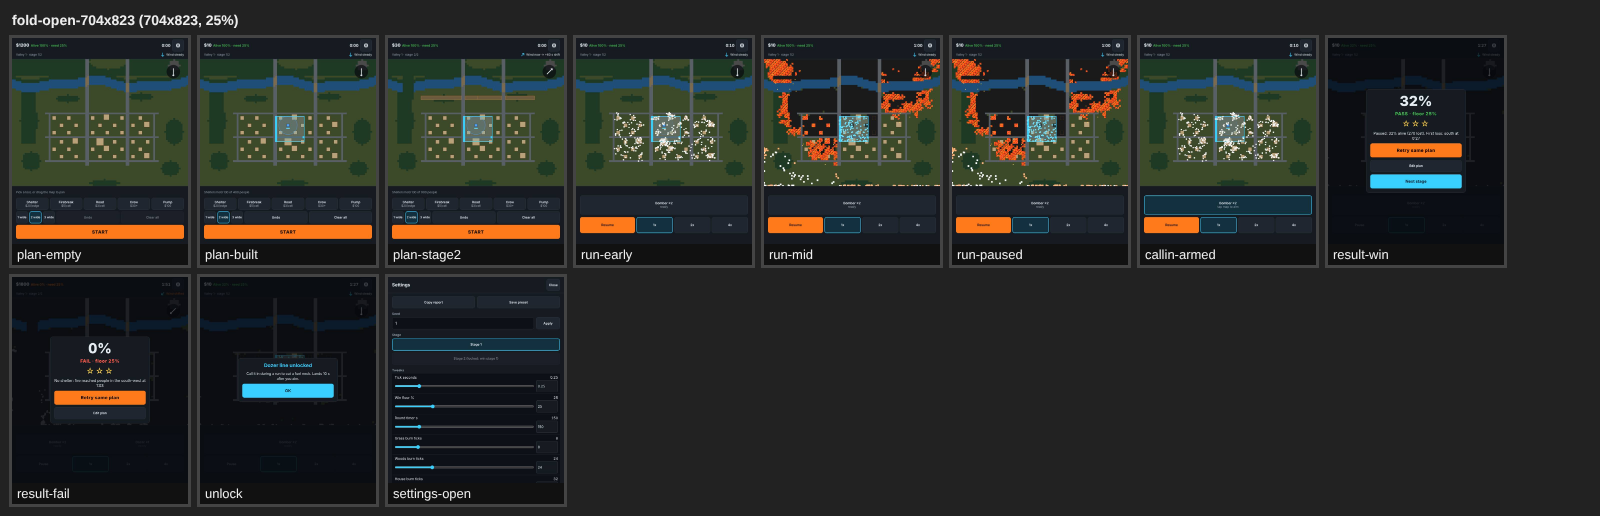
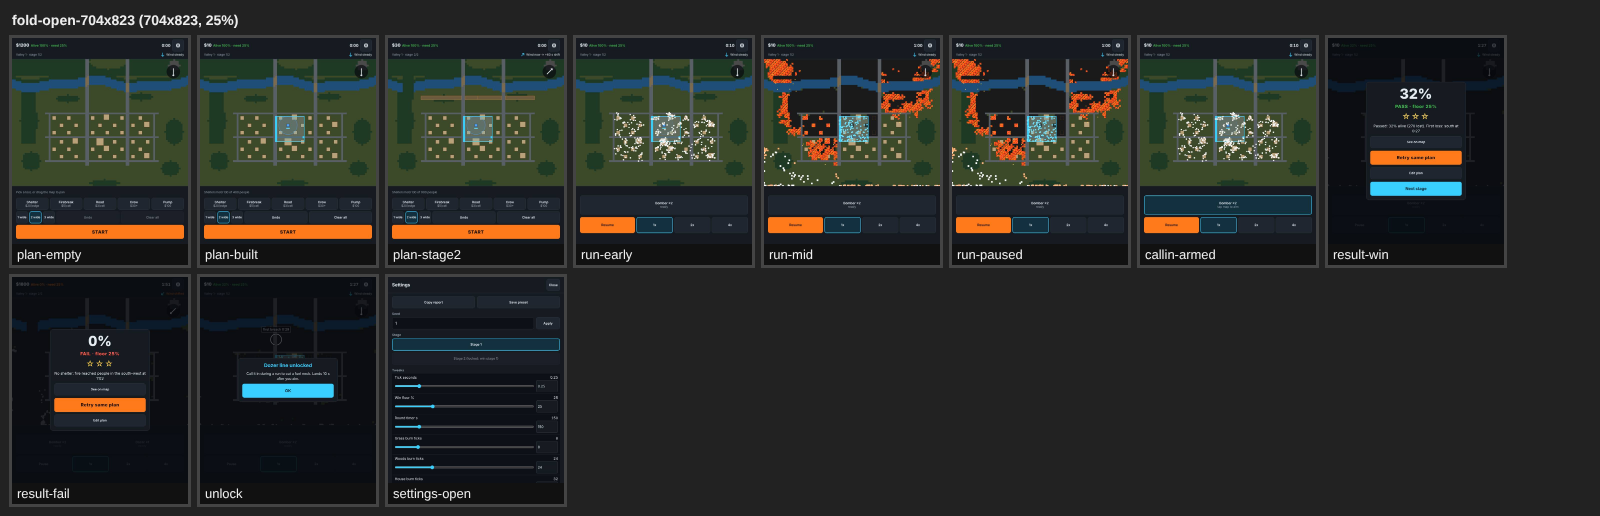
Windward Line: GameUp fixes (retry replays call-ins, first breach marked on result map, stronger tests)
Claude-Session: https://claude.ai/code/session_01Lcw2xwGgeZfKaon83XgmU6

Changed region(s): [[0.8438, 0.155, 0.9375, 0.4031], [0.0312, 0.6512, 0.0938, 0.8372]]

diff --git a/pages/windward-line/js/ui.js b/pages/windward-line/js/ui.js
@@ -1,6 +1,7 @@
 // Windward Line - DOM UI (M7). initUI(root, api) -> {update, showResult, showUnlock, hideOverlays, toast, openSettings, closeSettings}
 // Builds every element inside root except #map (already there). update() runs every frame: DOM touched only on change.
-import { STAGES, fmtTime, cfgDiffers, windVec, defaultCfg } from './contract.js';
+import { resultMark } from './render.js';
+import { STAGES, CELL_PX, fmtTime, cfgDiffers, windVec, defaultCfg } from './contract.js';
 
 const TOOL_NAME = { zone: 'Shelter', break: 'Firebreak', road: 'Road', crew: 'Crew', pump: 'Pump' };
 const TOOL_HINT = {
@@ -113,7 +114,8 @@ export function initUI(root, api) {
   const bRetry = btn('primary', 'Retry same plan', { 'data-act': 'retry' });
   const bEdit = btn('', 'Edit plan', { 'data-act': 'edit' });
   const bNext = btn('accent', 'Next stage', { 'data-act': 'next' });
-  rCard.append(rBig, rVerdict, rStars, rCause, rNote, bRetry, bEdit, bNext);
+  const bSee = btn('', 'See on map', { 'data-act': 'see-map' }); bSee.hidden = true;
+  rCard.append(rBig, rVerdict, rStars, rCause, rNote, bSee, bRetry, bEdit, bNext);
   result.appendChild(rCard);
 
   // ---------- unlock ----------
@@ -165,7 +167,9 @@ export function initUI(root, api) {
 
   const toastEl = el('div', null, '', { id: 'toast', role: 'status', 'aria-live': 'polite' }); toastEl.hidden = true;
 
-  root.append(top, trayPlan, trayRun, result, unlock, settings, toastEl);
+  const bBack = btn('accent', 'Back to result', { 'data-act': 'back-result' }); bBack.hidden = true;
+  Object.assign(bBack.style, { position: 'fixed', zIndex: '25', left: '50%', transform: 'translateX(-50%)', width: 'auto', minWidth: '160px', height: '48px', minHeight: '48px', padding: '0 20px', bottom: 'calc(16px + env(safe-area-inset-bottom, 0px))', flexDirection: 'row' });
+  root.append(bBack, top, trayPlan, trayRun, result, unlock, settings, toastEl);
 
   // ---------- state ----------
   let armed = null;       // armed call-in (local mirror unless api.getArmed exists)
@@ -174,12 +178,12 @@ export function initUI(root, api) {
   let evSeen = 0, warned = false, shiftedEv = false, evStateId = null;
   let toastTimer = 0;
   let presetN = 0;
-  let resultWanted = false; // result sheet logically open (hidden visually while the unlock card shows)
+  let resultWanted = false, mapMode = false; // result sheet logically open (hidden visually while the unlock card shows)
   const cfgOf = (s) => (s && s.cfg) || call('getCfg') || defaultCfg;
 
   // ---------- overlay stacking ----------
   function syncInert() {
-    const anyOpen = resultWanted || !unlock.hidden || !settings.hidden;
+    const anyOpen = (resultWanted && !mapMode) || !unlock.hidden || !settings.hidden;
     for (const e of [top, trayPlan, trayRun, document.getElementById('map')]) {
       if (!e) continue;
       setAttr(e, 'aria-hidden', anyOpen ? 'true' : null);
@@ -187,7 +191,8 @@ export function initUI(root, api) {
     }
     const topIsUnlock = !unlock.hidden;
     const resCovered = topIsUnlock || !settings.hidden;
-    setHidden(result, resultWanted && !unlock.hidden ? true : !resultWanted);
+    setHidden(result, resultWanted && !unlock.hidden ? true : (!resultWanted || mapMode));
+    bBack.hidden = !(resultWanted && mapMode) || !settings.hidden;
     setAttr(result, 'aria-hidden', resCovered ? 'true' : null);
     setAttr(result, 'inert', resCovered ? '' : null);
     const setCovered = !unlock.hidden;
@@ -229,7 +234,17 @@ export function initUI(root, api) {
     setHidden(bNext, !(r.win && st === 1));
     setText(rNote, r.win && st === 2 ? 'Valley 1 continues - stages 3 to 5 later' : '');
     setHidden(rNote, !(r.win && st === 2));
+    mapMode = false; bSee.hidden = !resultMark(s);
     resultWanted = true; syncInert();
+  }
+  function seeOnMap() {
+    const s = last, mk = resultMark(s), W = window.WL, v = W && W.view, m = document.getElementById('map');
+    if (mk && v && m) { // centre the camera on the mark (admin default)
+      const S = CELL_PX * v.scale;
+      v.ox = (mk.x + 0.5) * S - (m.clientWidth || window.innerWidth) / 2;
+      v.oy = (mk.y + 0.5) * S - (m.clientHeight || window.innerHeight) / 2;
+    }
+    mapMode = true; syncInert(); try { W && W.render && W.render(); } catch (e) { /* ignore */ }
   }
   function showUnlock(text) {
     let body = String(text == null ? '' : text).replace(/^\s*Dozer line unlocked\s*[:.\-–]?\s*/i, '');
@@ -237,7 +252,7 @@ export function initUI(root, api) {
     unlock.hidden = false; refreshStagePicker(); syncInert();
   }
   function hideOverlays() {
-    resultWanted = false; unlock.hidden = true; syncInert();
+    resultWanted = false; mapMode = false; unlock.hidden = true; syncInert();
   }
   function toast(text) {
     toastEl.textContent = String(text == null ? '' : text); toastEl.hidden = false;
@@ -277,6 +292,8 @@ export function initUI(root, api) {
         case 'undo': call('undo'); break;
         case 'clear': call('clearAll'); break;
         case 'pause': call('pause', !(last && last.paused)); break;
+        case 'see-map': seeOnMap(); break;
+        case 'back-result': mapMode = false; syncInert(); break;
         case 'retry': hideOverlays(); call('retry'); break;
         case 'edit': hideOverlays(); call('editPlan'); break;
         case 'next': hideOverlays(); call('nextStage'); break;

diff --git a/pages/windward-line/js/render.js b/pages/windward-line/js/render.js
@@ -1,7 +1,16 @@
 // Windward Line - render.js (M6). Canvas 2D. Imports only contract.js.
 // Terrain (grid.type + burnt) cached in an offscreen 96x128 canvas (1 px per cell), scaled with smoothing off.
 // Static vector overlays (building outlines, break outlines) cached as Path2D in cell units. Dynamic layers per frame.
-import { TYPE, MODE, MAP_W, MAP_H, CELL_PX, windVec } from './contract.js';
+import { TYPE, MODE, MAP_W, MAP_H, CELL_PX, windVec, fmtTime } from './contract.js';
+
+// result mark: state.firstBreach {x,y,tick,kind}, else the first 'first-loss' event. Shared with ui.js (See on map).
+export function resultMark(state) {
+  if (!state || state.phase !== 'result') return null;
+  const fb = state.firstBreach;
+  if (fb && fb.x != null) return { x: fb.x, y: fb.y, tick: fb.tick, label: 'first breach' };
+  const fl = (state.events || []).find((e) => e.kind === 'first-loss');
+  return fl && fl.x != null ? { x: fl.x, y: fl.y, tick: fl.tick, label: 'first loss' } : null;
+}
 
 const COL = {
   bg: '#0d1117', [TYPE.GRASS]: '#3d4a2a', [TYPE.WOODS]: '#1f3a24', [TYPE.HOUSE]: '#b9a27a', [TYPE.ROAD]: '#5a5f66',
@@ -263,5 +272,19 @@ export function draw(r, state, view, overlay) {
     ctx.beginPath(); ctx.moveTo(hx + wx * 6, hy + wy * 6); ctx.lineTo(hx + nx * 6, hy + ny * 6); ctx.lineTo(hx - nx * 6, hy - ny * 6); ctx.closePath(); ctx.fill();
     ctx.lineCap = 'butt'; // no text label: top bar already names the wind
   }
+  // result mark: static white ring (3 cells) + label tag, no animation
+  const mk = resultMark(state);
+  if (mk) {
+    const mx = sx(mk.x + 0.5), my = sy(mk.y + 0.5), rr = 3 * S;
+    ctx.save();
+    ctx.strokeStyle = 'rgba(8,10,14,0.85)'; ctx.lineWidth = 6; ctx.beginPath(); ctx.arc(mx, my, rr, 0, 6.2832); ctx.stroke();
+    ctx.strokeStyle = '#ffffff'; ctx.lineWidth = 3; ctx.beginPath(); ctx.arc(mx, my, rr, 0, 6.2832); ctx.stroke();
+    ctx.restore();
+    const txt = mk.label + ' ' + fmtTime(mk.tick * (cfg.tickSec || 0.25));
+    const lb = labelBox(ctx, txt, mx, my - rr - 18, vw, vh);
+    ctx.fillStyle = '#fff'; ctx.fillText(txt, lb.tx, lb.ty);
+    ctx.strokeStyle = '#fff'; ctx.lineWidth = 1; ctx.strokeRect(lb.x + 0.5, lb.y + 0.5, lb.bw - 1, lb.bh - 1);
+  }
+
   r.lastMs = (typeof performance !== 'undefined') ? performance.now() - t0 : 0;
 }

diff --git a/pages/windward-line/js/sim.js b/pages/windward-line/js/sim.js
@@ -29,7 +29,7 @@ export function createState(stage, cfg, seed) {
     money: S.money, spent: 0,
     counts: { people0: S.people, safe: 0, lost: 0, burning: 0, burnt: 0, inZone: 0 },
     events: [], firstBreach: null, spotIndex: 0, nextSpotTick: S.newSpotEvery > 0 ? secToTicks(cfg, S.newSpotEvery) : Infinity, quietTicks: 0,
-    inputs: [], result: null,
+    inputs: [], replay: [], result: null,
     _sprayHits: new Uint8Array(N),
   };
 }
@@ -167,6 +167,8 @@ function crewStep(state, refillNow) {
 export function step(state) {
   if (state.phase !== PHASE.RUN) return;
   const { cfg, wind, map } = state, S = STAGES[state.stage];
+  // 0 replay: re-queue recorded live call-ins at their original tick (retry / edit plan), before wind and resolution
+  if (state.replay && state.replay.length) for (const r of state.replay) if (r.tick === state.tick) queueCallin(state, r.type, r.x, r.y);
   // 1 wind
   if (wind.shiftAtTick != null && !wind.shifted) {
     const warnAt = Math.max(0, wind.shiftAtTick - secToTicks(cfg, cfg.forecastLeadSec));

diff --git a/pages/windward-line/js/testhook.js b/pages/windward-line/js/testhook.js
@@ -70,7 +70,7 @@ export function installTestHook(WL) {
     const r = s.result;
     if (win && !(r && r.win)) {
       // admin default fallback: force a representative win so the result sheet is always reachable.
-      s.result = { win: true, pct: 62, stars: 1, cause: 'Held: 62% alive', hash: 0, sec: 88 };
+      s.result = { win: true, pct: 62, stars: 1, cause: 'Passed: 62% alive (38 lost). First loss: south at 0:29', hash: 0, sec: 88 };
       s.phase = 'result';
     } else if (!win && (!r || r.win)) {
       // admin default fallback: force a representative fail.

diff --git a/pages/windward-line/js/main.js b/pages/windward-line/js/main.js
@@ -66,7 +66,10 @@ function newState(st, sd) {
 }
 function rebuildSame(keepPlan) {
   const old = state.plan.slice();
+  // replay live call-ins from the last run (admin default: edit plan + START replays them too)
+  const replay = (state.inputs && state.inputs.length ? state.inputs : (state.replay || [])).map((r) => ({ tick: r.tick, type: r.type, x: r.x, y: r.y }));
   state = createState(state.stage, cfg, state.seed);
+  state.replay = replay;
   stage = state.stage;
   for (const a of old) applyAction(state, a);
   clearInteraction();

diff --git a/pages/windward-line/CONTRACT.md b/pages/windward-line/CONTRACT.md
@@ -131,6 +131,7 @@ shelter at 1:12", "Road cut south-west at 0:58", "Gate closed at the west shelte
 `hashState` = FNV-1a 32-bit over tick, grid.burn, grid.burnt, people x/y quantised (x*4|0), people.mode, money.
 `runToEnd(state, maxTicks=20000)` steps until phase 'result'. `startRun` requires phase plan: spawnPeople, sets
 nextSpotTick, shiftAtTick, phase 'run', buildFlow. Same seed + plan + inputs = same hash.
+Retry / Edit plan: main.js copies the last run's `state.inputs` into `newState.replay`; `step()` re-queues each replay entry via `queueCallin` at its original tick (step 0, before wind and call-in resolution). Retry same plan therefore replays the live call-ins; Edit plan + START replays them too by default (admin default; a changed plan may make them land differently). `state.replay:[{tick,type,x,y}]`, empty on a fresh state.
 `queueCallin(state,type,x,y)` -> {ok,reason}: phase run, tool in STAGES tools, uses left > 0; pushes queue
 {atTick: tick + secToTicks(delay)}, inputs.
 createState: rng = makeRng(seed); money = STAGES[stage].money; callins left from cfg; people arrays empty (n=0) until
